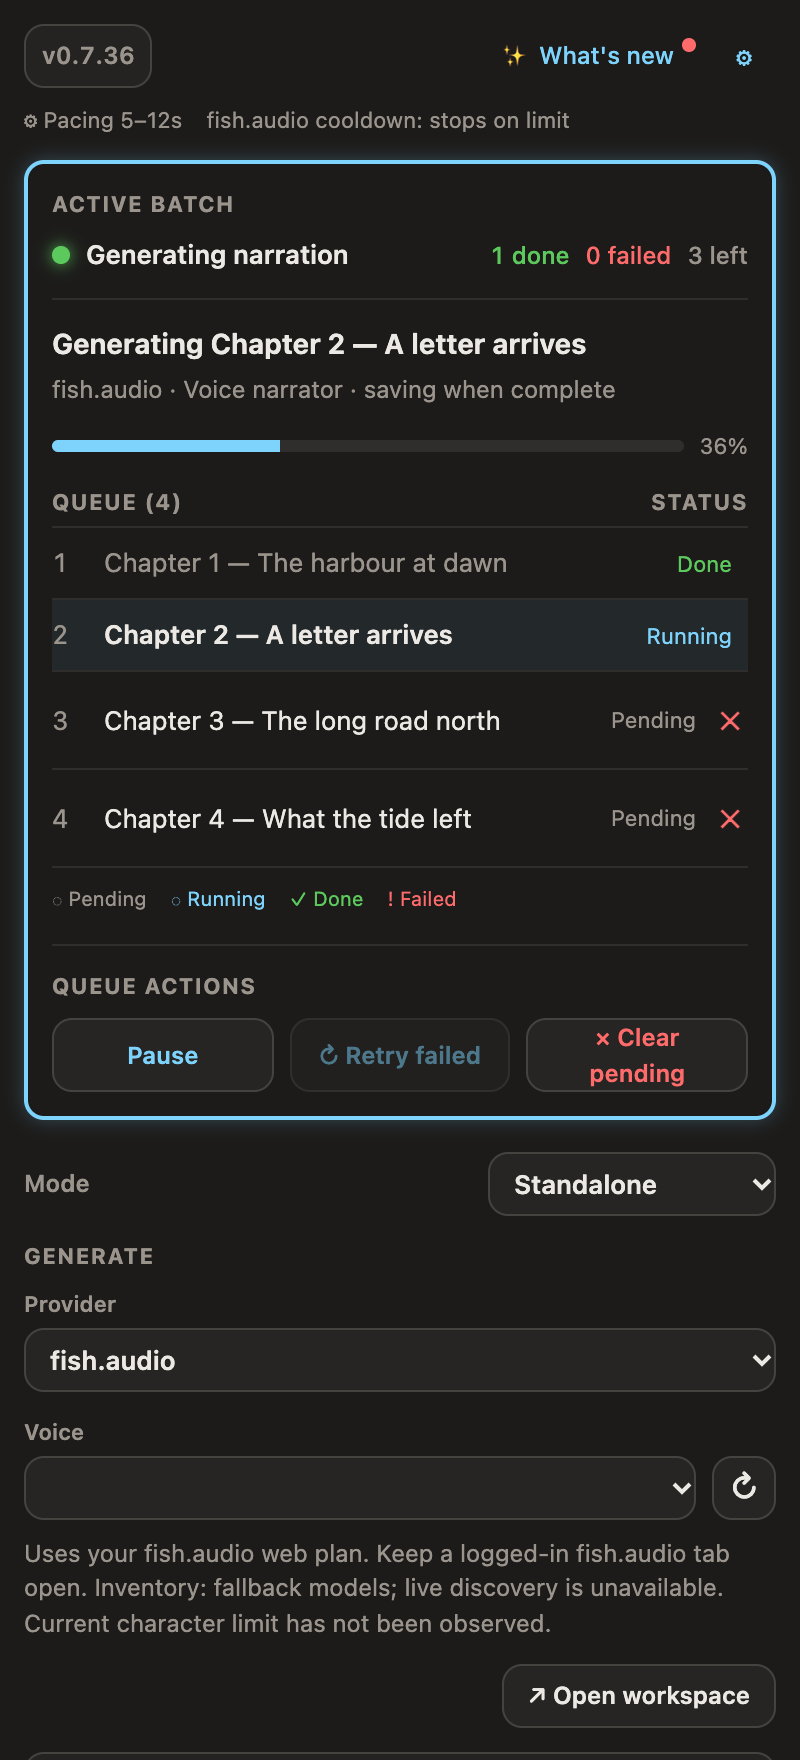
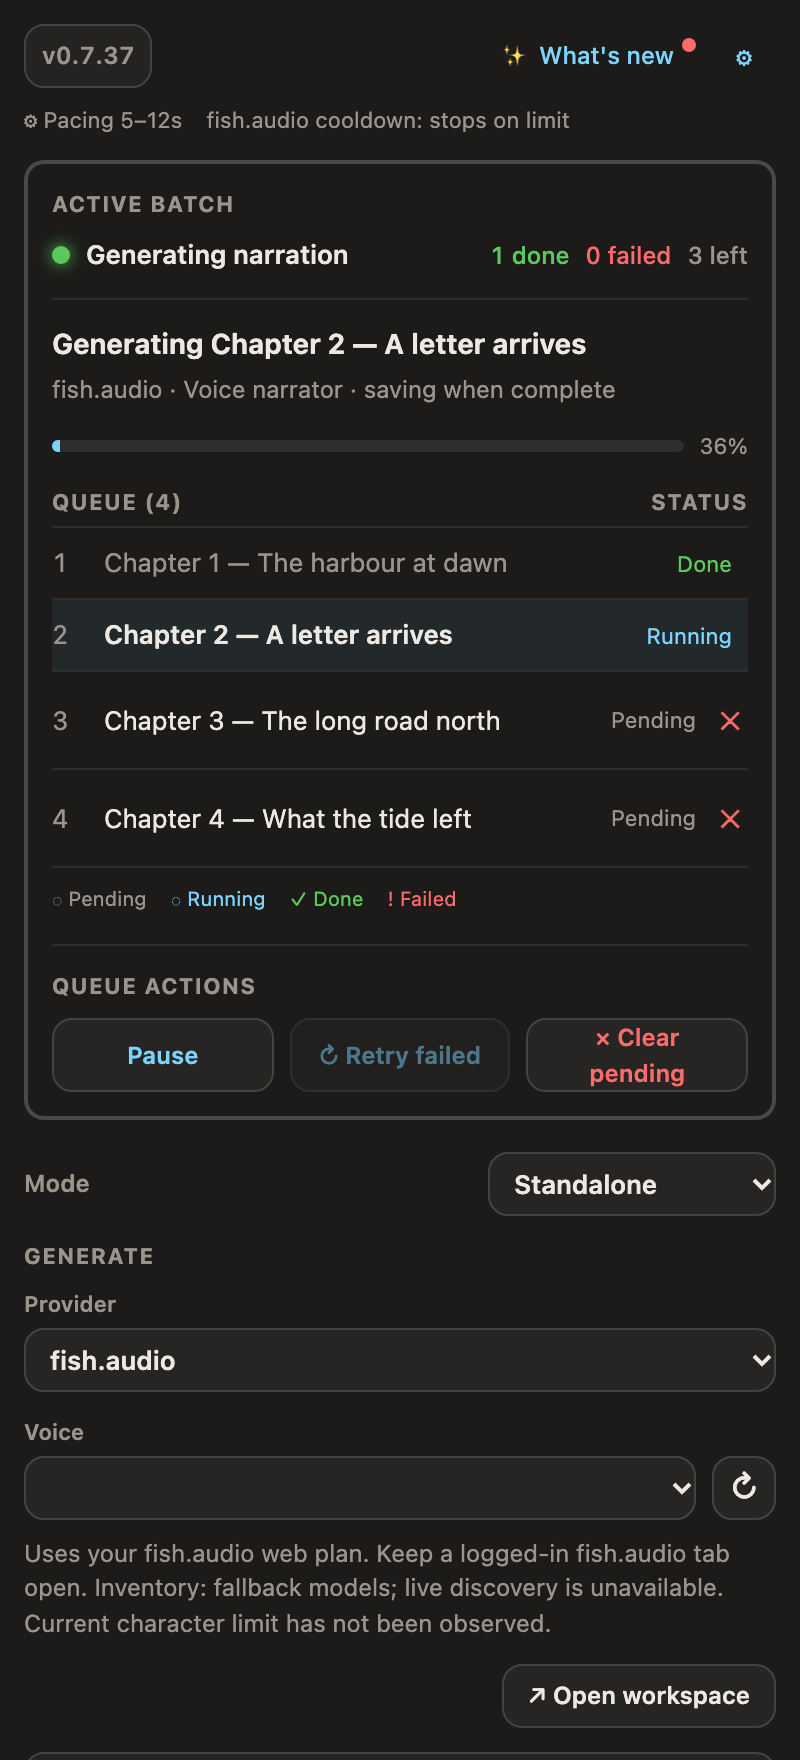
docs: screenshots from the 0.7.37 build, Settings included
Re-captured the panel screens and the Launcher tile from the 0.7.37 zip itself in
headless Chrome for Testing with a throwaway profile and demo content. Settings is
new: it is the screen 0.7.37 fixes, and it shows the Gateway opt-in checkbox on the
same line as its label. README embeds two and links the other two.

Changed region(s): [[0.0, 0.0938, 1.0, 0.6562], [0.0625, 0.0625, 0.9375, 0.0938]]

diff --git a/README.md b/README.md
@@ -43,12 +43,13 @@ Gateway Studio pairs the extension with Gateway Studio KH as an outbound worker:
 The side panel while a batch runs: the active batch with its progress, the queue with each
 script's status, and the mode and provider controls underneath.
 
-![Side panel generating a batch, with the queue below](docs/screenshots/panel-queue-light.png)
+![Side panel generating a batch: the active batch with its progress, the queue with each script's status, and the mode and provider controls below](docs/screenshots/panel-queue-light.png)
 
-![The same queue in the dark theme](docs/screenshots/panel-queue-dark.png)
+![The same work queue in the dark theme](docs/screenshots/panel-queue-dark.png)
 
-The panel before anything is queued is also available:
-[side panel in its idle state](docs/screenshots/panel-idle-light.png).
+Also available: [the side panel in its idle state, before anything is
+queued](docs/screenshots/panel-idle-light.png), and [the Settings page, where the theme and the
+opt-in Gateway worker are configured](docs/screenshots/settings-light.png).
 
 ## Install
 
